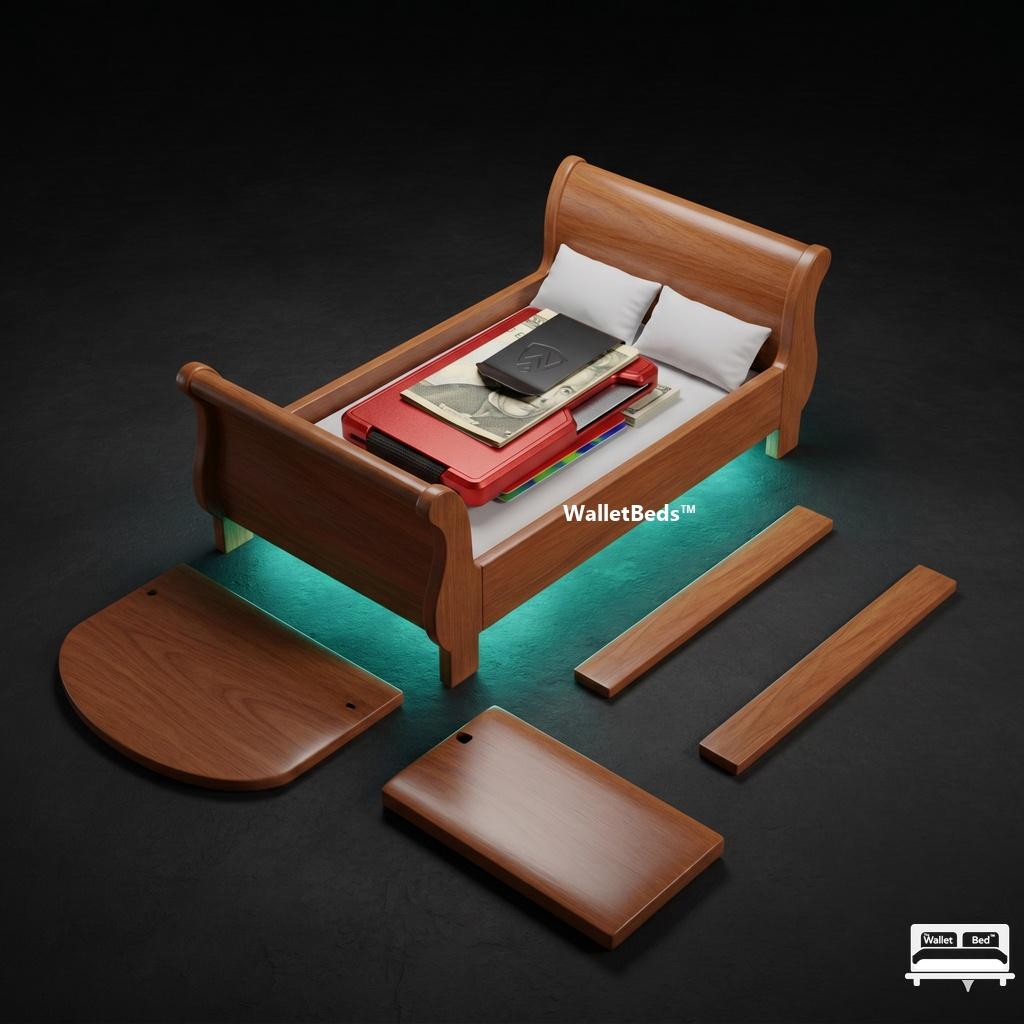
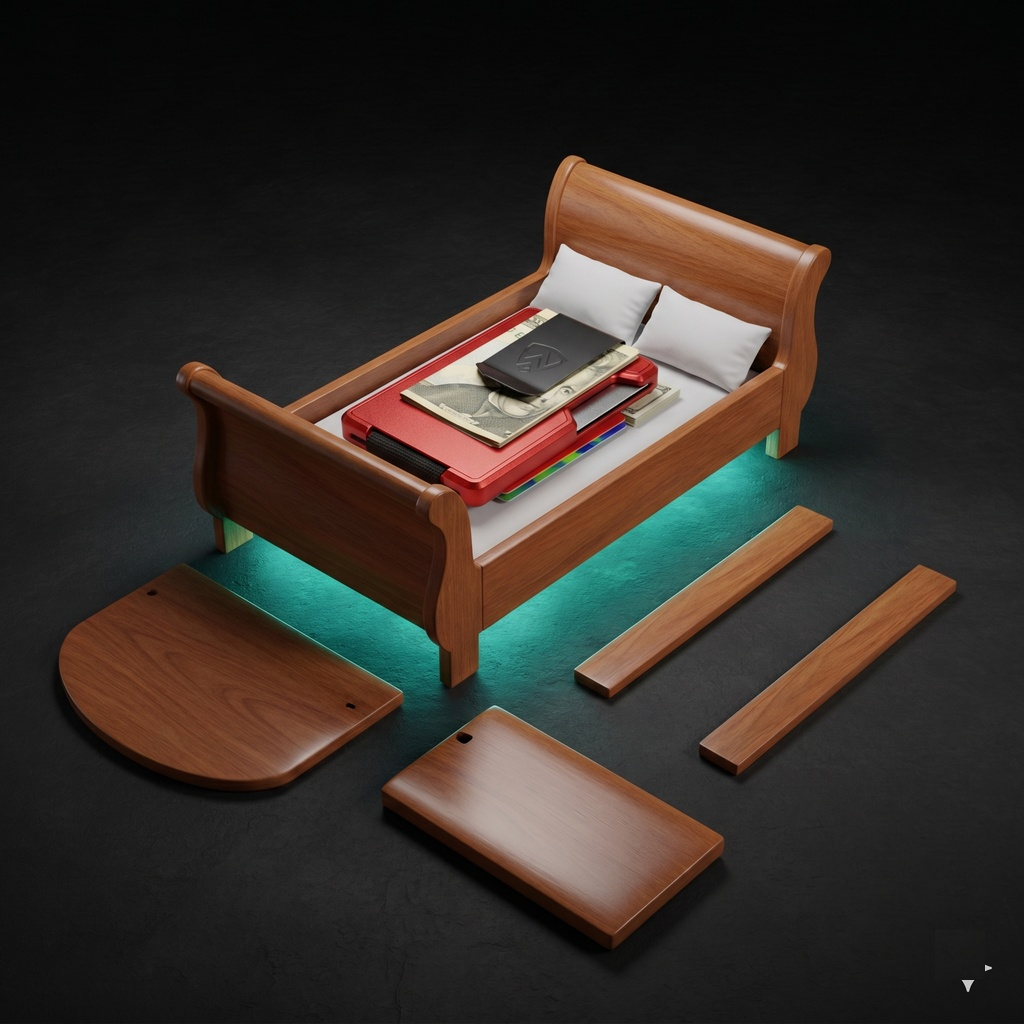
Add files via upload

Changed region(s): [[0.875, 0.875, 1.0, 0.9688], [0.5625, 0.4688, 0.6562, 0.5312], [0.6562, 0.4688, 0.6875, 0.5]]

diff --git a/walletbeds/apply_comforter.py b/walletbeds/apply_comforter.py
@@ -202,40 +202,13 @@ for src_name, dest_name, color in bed_mappings:
         # Paste transparent wallet on top of shadow
         composite_canvas.paste(wallet_rgba, (wx1, wy1), wallet_rgba)
         
-        # E. Watermark Branding Overlays (Erase AI star, overlay logo & side rail watermark)
+        # E. Watermark Branding Overlays (Erase AI star, skip logo & text watermark)
         # 1. Erase AI star at bottom-right
         clean_patch = composite_canvas.crop((860, 930, 910, 980))
         composite_canvas.paste(clean_patch, (935, 930))
         
-        # 2. Overlay silver brand logo (centered at 960, 955)
-        logo_w = 110
-        logo_h = int(logo_w * logo_silver_cropped.size[1] / logo_silver_cropped.size[0])
-        logo_resized = logo_silver_cropped.resize((logo_w, logo_h), Image.Resampling.LANCZOS)
-        logo_x = 960 - logo_w // 2
-        logo_y = 955 - logo_h // 2
-        composite_canvas.paste(logo_resized, (logo_x, logo_y), logo_resized)
-        
-        # 3. Draw horizontal "WalletBeds™" text on the side rail
-        td = ImageDraw.Draw(composite_canvas)
-        watermark_text = "WalletBeds™"
-        text_color = (255, 255, 255, 255)
-        
-        if hasattr(td, 'textbbox'):
-            tb = td.textbbox((0, 0), watermark_text, font=font)
-            tw = tb[2] - tb[0]
-            th = tb[3] - tb[1]
-        else:
-            tw, th = td.textsize(watermark_text, font=font)
-            
-        txt_canvas = Image.new("RGBA", (tw + 20, th + 20), (0, 0, 0, 0))
-        td_c = ImageDraw.Draw(txt_canvas)
-        td_c.text((10, 10), watermark_text, font=font, fill=text_color)
-        
-        cx, cy = rail_coordinates.get(dest_name, (687, 560))
-        paste_x = cx - txt_canvas.size[0] // 2
-        paste_y = cy - txt_canvas.size[1] // 2
-        
-        composite_canvas.paste(txt_canvas, (paste_x, paste_y), txt_canvas)
+        # We skip adding any custom watermarks to maintain a premium clean design.
+        pass
         
         # F. Save composite image to workspace images directory
         final_rgb = composite_canvas.convert("RGB")

diff --git a/walletbeds/process_brand_images.py b/walletbeds/process_brand_images.py
@@ -76,37 +76,8 @@ for src_name, dest_name in brand_files.items():
         clean_patch = img_resized.crop((860, 930, 910, 980))
         img_resized.paste(clean_patch, (935, 930))
         
-        # B. Overlay the silver logo at bottom-right corner (centered at 960, 955)
-        logo_w = 110
-        logo_h = int(logo_w * logo_silver_cropped.size[1] / logo_silver_cropped.size[0])
-        logo_resized = logo_silver_cropped.resize((logo_w, logo_h), Image.Resampling.LANCZOS)
-        logo_x = 960 - logo_w // 2
-        logo_y = 955 - logo_h // 2
-        img_resized.paste(logo_resized, (logo_x, logo_y), logo_resized)
-        
-        # C. Draw the text watermark "WalletBeds™" on the side rail (687, 560)
-        td = ImageDraw.Draw(img_resized)
-        watermark_text = "WalletBeds™"
-        text_color = (255, 255, 255, 255)
-        
-        if hasattr(td, 'textbbox'):
-            tb = td.textbbox((0, 0), watermark_text, font=font)
-            tw = tb[2] - tb[0]
-            th = tb[3] - tb[1]
-        else:
-            tw, th = td.textsize(watermark_text, font=font)
-            
-        txt_canvas = Image.new("RGBA", (tw + 20, th + 20), (0, 0, 0, 0))
-        td_c = ImageDraw.Draw(txt_canvas)
-        td_c.text((10, 10), watermark_text, font=font, fill=text_color)
-        
-        cx, cy = 687, 560
-        if src_name == "Wallet Bed Swiss.png":
-            cx, cy = 630, 505  # Positioned directly on the wooden side rail of the bed frame
-            
-        paste_x = cx - txt_canvas.size[0] // 2
-        paste_y = cy - txt_canvas.size[1] // 2
-        img_resized.paste(txt_canvas, (paste_x, paste_y), txt_canvas)
+        # B. We skip adding any custom watermarks to maintain a premium clean design.
+        pass
         
         # Save as JPEG
         final_rgb = img_resized.convert("RGB")

diff --git a/walletbeds/process_white_bed.py b/walletbeds/process_white_bed.py
@@ -61,34 +61,8 @@ with Image.open(src_path) as img:
     clean_patch = img_resized.crop((860, 930, 910, 980))
     img_resized.paste(clean_patch, (935, 930))
     
-    # B. Overlay the silver logo at bottom-right corner (centered at 960, 955)
-    logo_w = 110
-    logo_h = int(logo_w * logo_silver_cropped.size[1] / logo_silver_cropped.size[0])
-    logo_resized = logo_silver_cropped.resize((logo_w, logo_h), Image.Resampling.LANCZOS)
-    logo_x = 960 - logo_w // 2
-    logo_y = 955 - logo_h // 2
-    img_resized.paste(logo_resized, (logo_x, logo_y), logo_resized)
-    
-    # C. Draw the text watermark "WalletBeds™" on the side rail (687, 560)
-    td = ImageDraw.Draw(img_resized)
-    watermark_text = "WalletBeds™"
-    text_color = (255, 255, 255, 255)
-    
-    if hasattr(td, 'textbbox'):
-        tb = td.textbbox((0, 0), watermark_text, font=font)
-        tw = tb[2] - tb[0]
-        th = tb[3] - tb[1]
-    else:
-        tw, th = td.textsize(watermark_text, font=font)
-        
-    txt_canvas = Image.new("RGBA", (tw + 20, th + 20), (0, 0, 0, 0))
-    td_c = ImageDraw.Draw(txt_canvas)
-    td_c.text((10, 10), watermark_text, font=font, fill=text_color)
-    
-    cx, cy = 687, 560
-    paste_x = cx - txt_canvas.size[0] // 2
-    paste_y = cy - txt_canvas.size[1] // 2
-    img_resized.paste(txt_canvas, (paste_x, paste_y), txt_canvas)
+    # B. We skip adding any custom watermarks to maintain a premium clean design.
+    pass
     
     # Save as JPEG
     final_rgb = img_resized.convert("RGB")
